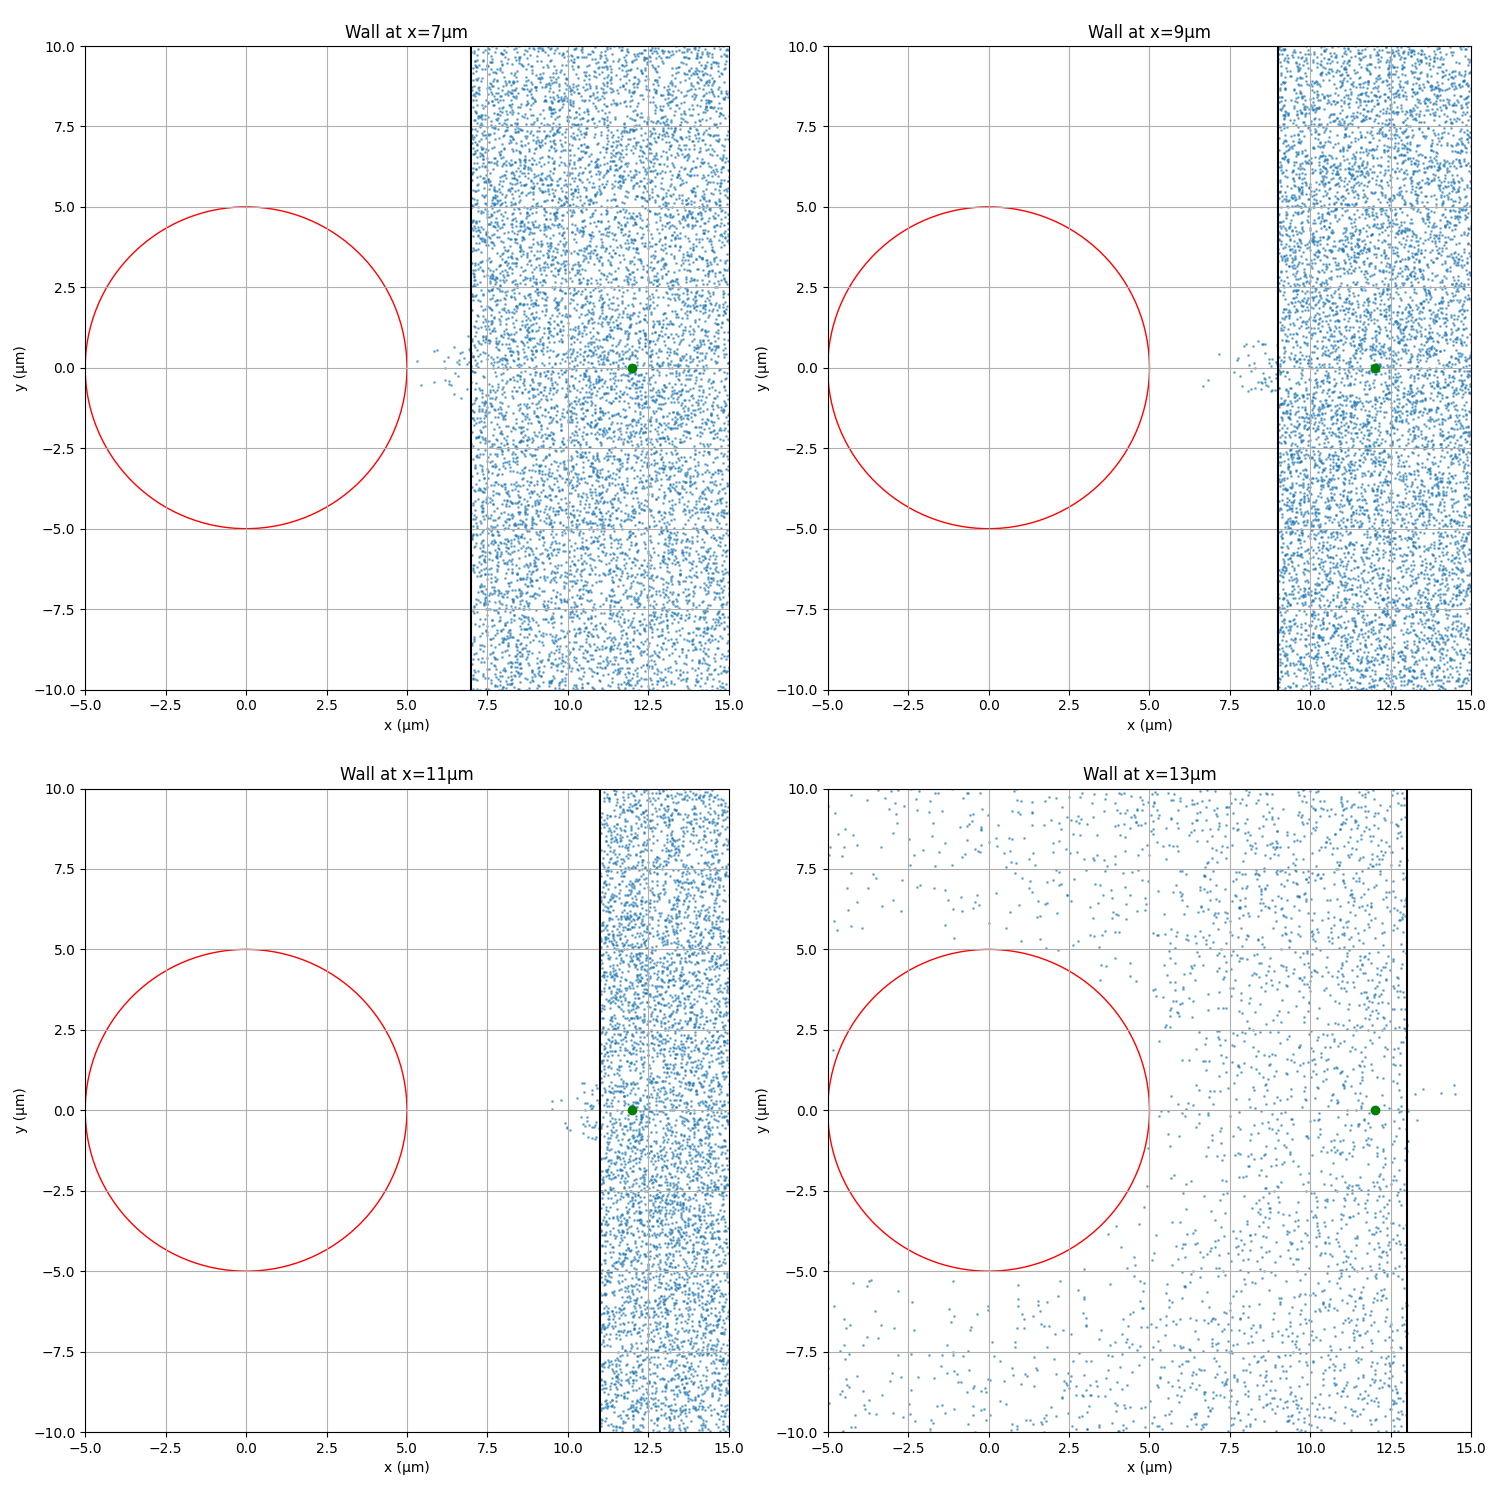
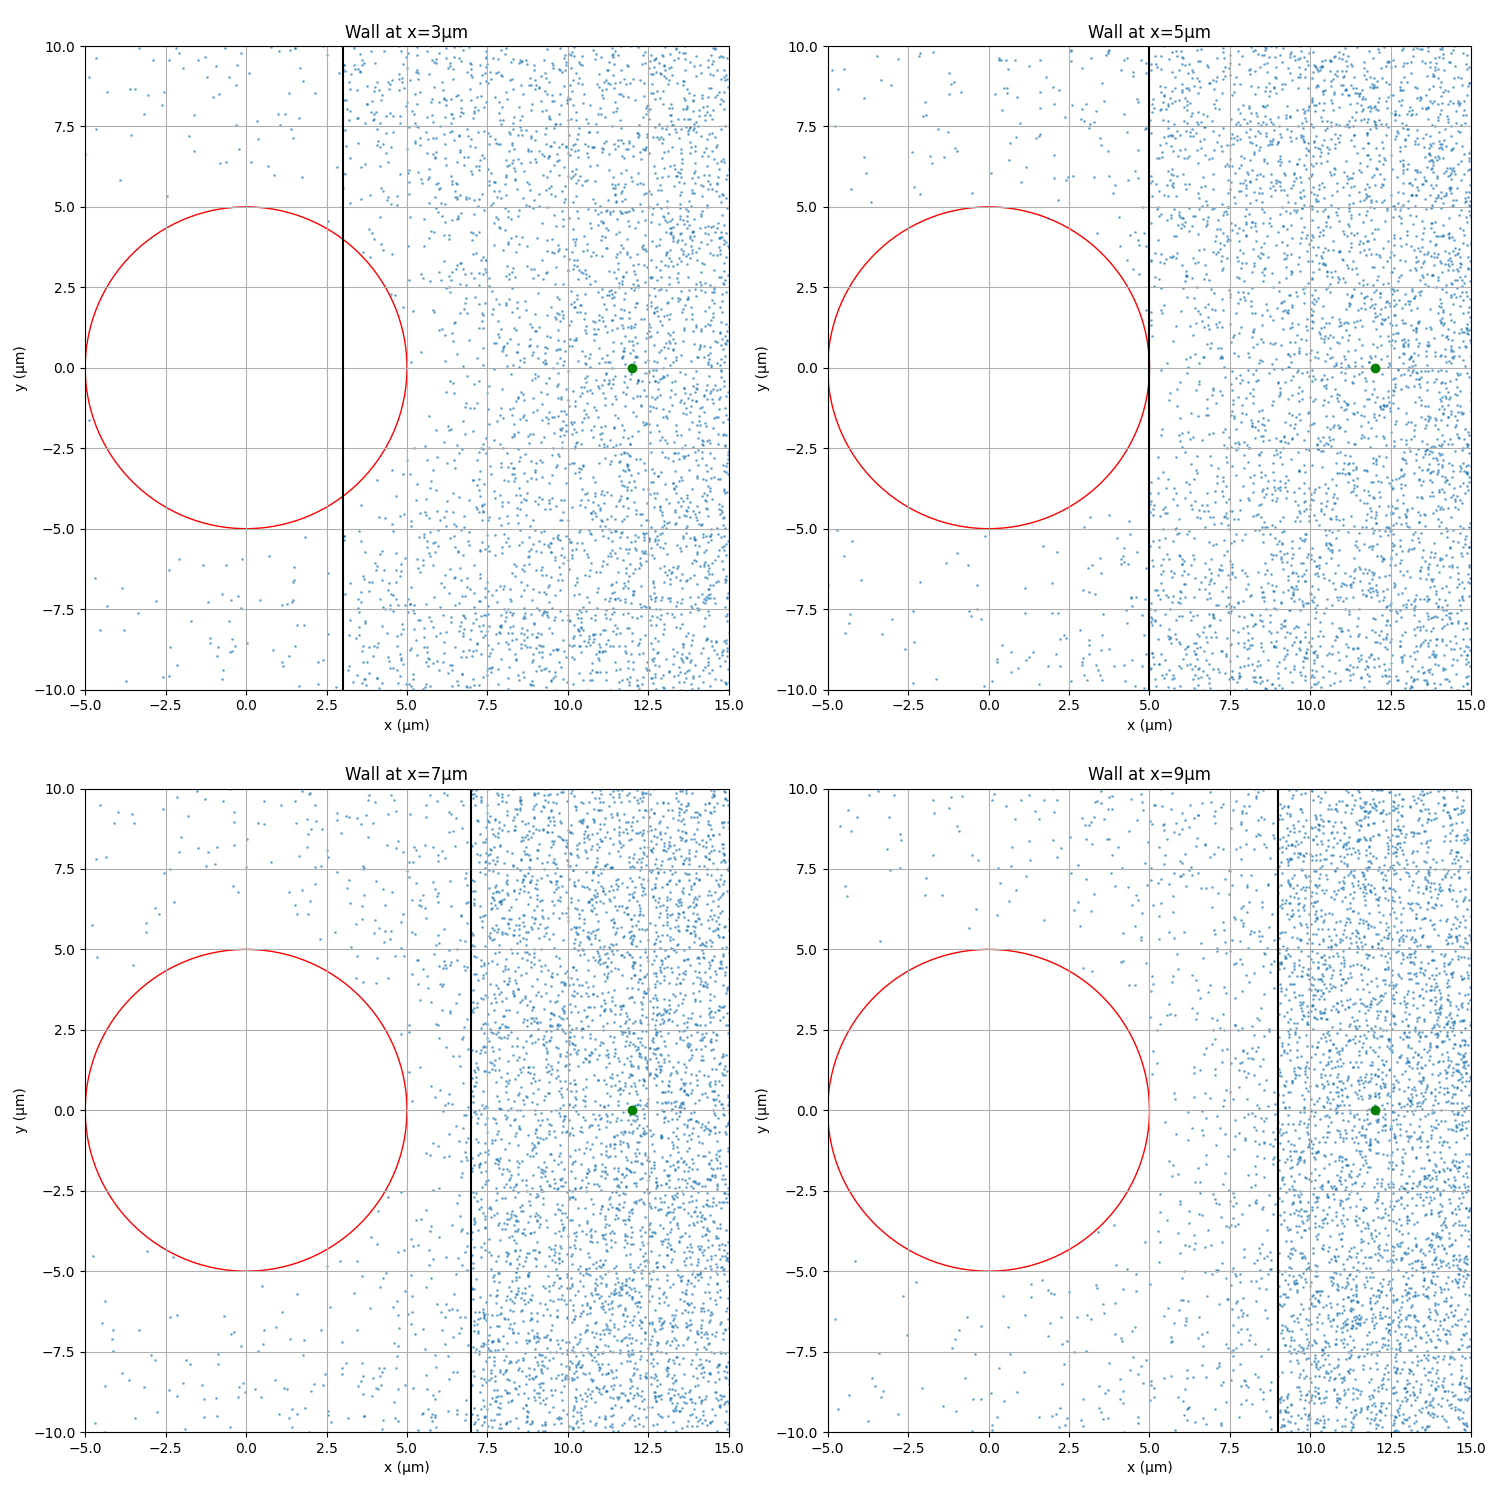
more modifications

diff --git a/project2/project2_2.py b/project2/project2_2.py
@@ -20,7 +20,7 @@ base_params = {
 
 # Create parameter sets with different reflecting wall positions
 param_sets = []
-for pos in [7, 9, 11, 13]:  # A values
+for pos in [3, 5, 7, 9]:  # A values
     params = base_params.copy()
     
     # Calculate actual distances accounting for receiver radius (rr)
@@ -41,27 +41,26 @@ for pos in [7, 9, 11, 13]:  # A values
     param_sets.append(params)
 
 
-def check_reflection(positions, reflecting_x, tx_x, opening_height):
-
+def check_reflection(positions, reflecting_x, tx_x, opening_height, buffer_distance=0.1):
     """Check and handle reflections at the obstacle"""
+    """buffer_distance is added in order to avoid checking the molecules that already passed the opening"""
     if reflecting_x < tx_x:  # Wall is on left side of transmitter
         # Find molecules that hit the reflecting line from right
-        hit_mask = positions[:, 0] <= reflecting_x
-
+        hit_mask = (positions[:, 0] <= reflecting_x) & (positions[:, 0] >= reflecting_x - buffer_distance)
     else:  # Wall is on right side of transmitter
         # Find molecules that hit the reflecting line from left
-        hit_mask = positions[:, 0] >= reflecting_x
+        hit_mask = (positions[:, 0] >= reflecting_x) & (positions[:, 0] <= reflecting_x + buffer_distance)
     
     if np.any(hit_mask):  # Only proceed if there are molecules hitting the wall
         # Among hit molecules, find which ones are at the opening
-        at_opening = np.abs(positions[hit_mask, 1]) <= opening_height/2
+        at_opening = np.abs(positions[hit_mask, 1]) <= opening_height / 2
         
         # Create mask for molecules that should be reflected
         reflect_mask = hit_mask.copy()
         reflect_mask[hit_mask] = ~at_opening
         
         # Reflect molecules that hit the wall (not at opening)
-        positions[reflect_mask, 0] = 2*reflecting_x - positions[reflect_mask, 0]
+        positions[reflect_mask, 0] = 2 * reflecting_x - positions[reflect_mask, 0]
     
     return positions
     
@@ -99,7 +98,7 @@ def simulate_diffusion(params):
     absorbed_total = 0
     
     print("\nStarting simulation steps...")
-    
+
     for step in range(num_steps):
         if step % progress_interval == 0:
             percent_complete = (step / num_steps) * 100
